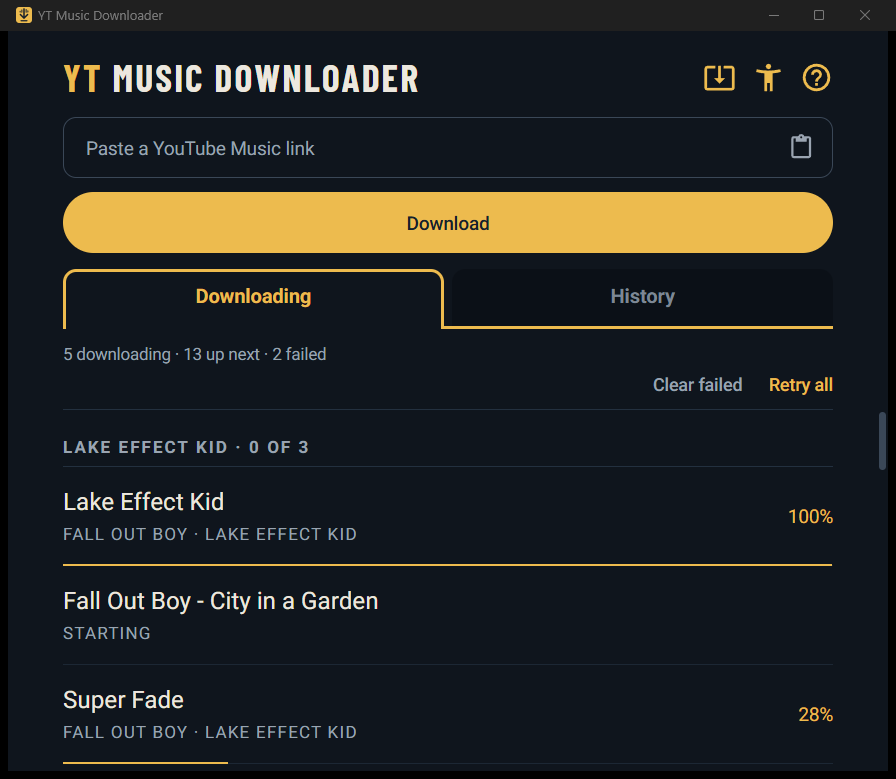
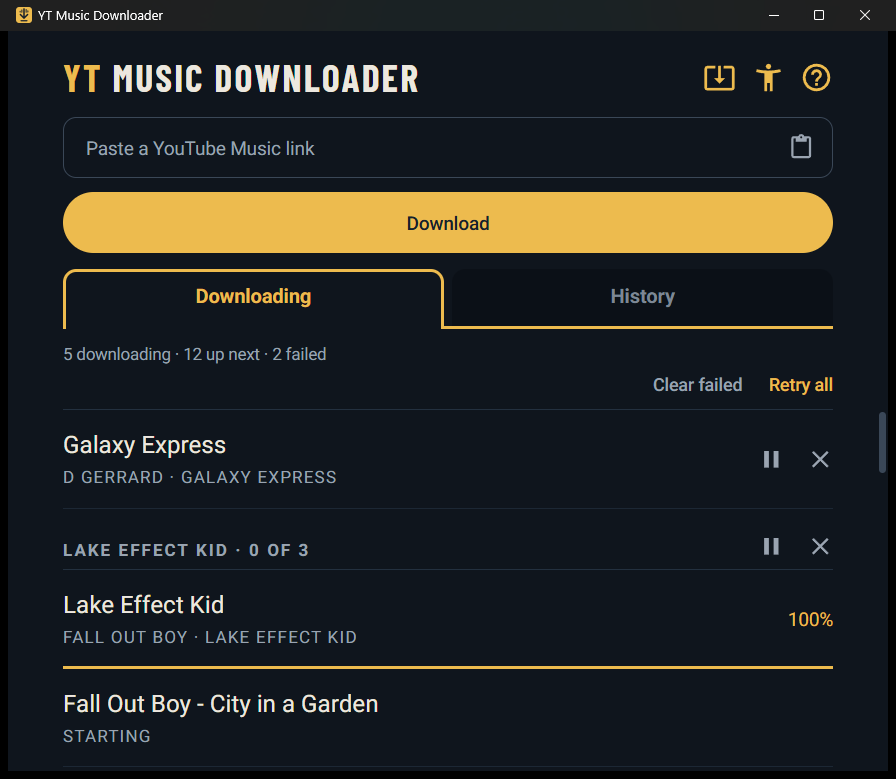
site: Downloading picture from 1.1.0, and "Let it run" fixed
The Windows Downloading screen is the only one 1.1.0 changed, so it's
retaken from the installed 1.1.0 with Pause and Cancel showing. "Let it
run" said big playlists start with no asking, which 1.1.0 changed.

diff --git a/yt-music-downloader/index.html b/yt-music-downloader/index.html
@@ -479,15 +479,15 @@ html[data-os="windows"] [data-for="android"]{display:none !important}
     <figure class="shots win" data-for="windows">
       <div class="tabs" role="tablist" aria-label="Screens">
         <button role="tab" aria-selected="false" aria-controls="pc" data-shot="help" data-cap="Help: how to paste a link, and which links work." tabindex="-1">Help</button>
-        <button role="tab" aria-selected="true" aria-controls="pc" data-shot="download" data-cap="Songs downloading, more up next, and failed ones with Retry all. Test songs, for the picture.">Downloading</button>
+        <button role="tab" aria-selected="true" aria-controls="pc" data-shot="download" data-cap="Songs downloading with Pause and Cancel, more up next, and failed ones with Retry all. Test songs, for the picture.">Downloading</button>
         <button role="tab" aria-selected="false" aria-controls="pc" data-shot="history" data-cap="Every song that's done, with its artist, album and the folder it went in." tabindex="-1">History</button>
       </div>
       <div class="stack" id="pc">
-        <div class="phone" data-shot="download" data-pos="centre"><img src="assets/win-downloading.png" width="896" height="779" alt="The Downloading tab on Windows: the paste box, the gold Download button, 5 downloading, 13 up next and 2 failed with Clear failed and Retry all, and an album's songs at 100%, starting and 28%"></div>
+        <div class="phone" data-shot="download" data-pos="centre"><img src="assets/win-downloading.png" width="896" height="779" alt="The Downloading tab on Windows: the paste box, the gold Download button, 5 downloading, 12 up next and 2 failed with Clear failed and Retry all, a single song and an album each with Pause and Cancel, and the album's songs at 100% and starting"></div>
         <div class="phone" data-shot="history" data-pos="right" aria-hidden="true"><img src="assets/win-history.png" width="896" height="779" alt="The History tab on Windows: finished songs under their album's heading, each with its artist, album, size, folder and Show in folder"></div>
         <div class="phone" data-shot="help" data-pos="left" aria-hidden="true"><img src="assets/win-help.png" width="896" height="779" alt="The Help pop-up on Windows: how to paste a link, which links work, where songs go, and closing the app"></div>
       </div>
-      <figcaption>Songs downloading, more up next, and failed ones with Retry all. Test songs, for the picture.</figcaption>
+      <figcaption>Songs downloading with Pause and Cancel, more up next, and failed ones with Retry all. Test songs, for the picture.</figcaption>
     </figure>
   </section>
 
@@ -694,14 +694,14 @@ html[data-os="windows"] [data-for="android"]{display:none !important}
           <li><span><span class="t">Copy a link</span><span class="s">In your browser, from YouTube or YT Music.</span></span></li>
           <li data-shot="paste" data-cap="The paste box and Download, at the top of the app." tabindex="0"><span><span class="t">Paste it in the app</span><span class="s">The paste icon, then <b>Download</b>.</span></span></li>
           <li class="on" data-shot="folder" data-cap="It starts on the folder you used last time." tabindex="0"><span><span class="t">Pick the folder</span><span class="s">Then <b>Download</b> again.</span></span></li>
-          <li data-shot="queue" data-cap="Five songs at a time, the rest up next. Big playlists start straight away." tabindex="0"><span><span class="t">Let it run</span><span class="s">Any size of playlist, no asking.</span></span></li>
+          <li data-shot="queue" data-cap="Five songs at a time, the rest up next. Pause and Cancel sit beside each playlist and single song." tabindex="0"><span><span class="t">Let it run</span><span class="s">Over 30 new songs, it asks first.</span></span></li>
           <li data-shot="close" data-cap="Closing while songs download asks first." tabindex="0"><span><span class="t">Close when you like</span><span class="s"><b>Minimise</b> keeps songs going.</span></span></li>
           <li data-shot="play" data-p="windows" data-cap-android="A downloaded song in the phone's own music player, with its title, artist and cover." data-cap-windows="Galaxy Express in Windows' Media Player, and in its music library with the artist and album the app filled in." tabindex="0"><span><span class="t">Play it</span><span class="s">Songs land in the folder you picked. Not in Media Player? <a class="see" href="#faq-library">See the FAQ</a>.</span></span></li>
         </ol>
         <figure class="cut">
           <img data-shot="paste" src="assets/win-setup-open.png" width="880" height="740" alt="The app's paste box, the paste icon and the gold Download button">
           <img class="on" data-shot="folder" src="assets/win-folder.png" width="616" height="265" alt="The Download to window: Songs are saved in this folder, the folder box, Change folder, Cancel and Download">
-          <img data-shot="queue" src="assets/win-downloading.png" width="896" height="779" alt="The Downloading tab: an album's songs downloading, more up next, and Retry all for the failed ones">
+          <img data-shot="queue" src="assets/win-downloading.png" width="896" height="779" alt="The Downloading tab: an album's songs downloading with Pause and Cancel, more up next, and Retry all for the failed ones">
           <img data-shot="close" src="assets/win-closing.png" width="896" height="779" alt="Songs are still downloading: 5 are downloading and 10 are up next, with Close and stop, and Minimise">
           <div class="mini" role="tablist" aria-label="Which player" data-shot="play"><button role="tab" aria-selected="false" data-p="android" tabindex="-1">Android phone</button><button role="tab" aria-selected="true" data-p="windows">Windows PC</button></div>
           <img data-shot="play" data-p="android" src="assets/play-it.png" width="900" height="1590" alt="HONOR Music playing Tip Toe by HYBS, with its cover art">

diff --git a/CLAUDE.md b/CLAUDE.md
@@ -65,6 +65,8 @@ first app on it) the site is done. Nothing below blocks that.]
     title is "YT Music Downloader · Android 1.0 · Windows 1.1.0". 1.1.0 asks before a
     playlist over 30 new songs, and has Pause / Cancel. 1.0.0 (the 26 Oct 18:41
     rebuild) stays downloadable as `yt-music-downloader-setup-1.0.0.exe`, in the menu.
+    The Downloading picture is retaken from 1.1.0 and "Let it run" fixed, both OK'd and
+    pushed 10 Nov.
 - **Tick the repo journal's goals, mine to do.** Both are met. Goal 1 still says "one
   long page, a section per app", but it became a catalogue page plus a page per app on
   14 Oct. Claude offered to log that change with `log` and reword the goal. Not
@@ -75,17 +77,19 @@ first app on it) the site is done. Nothing below blocks that.]
   [The phone cut-off I saw: it was "DOWNLOADER" in the stand-in font on a slow first
   load. Fixed by review fix #11, checked on my phone 16 Oct.]
   [The FAQ's "Is this legal?" is left out for good, my call 2026-10-16.]
-- **Version picker: built and live 2026-11-10**, A, the menu beside the download
-  button. OK'd from a test copy ("looks good"). The Windows tab has it now (1.1.0,
-  1.0.0). Android gets it at its second version. How the build differs from the
-  mockup is in [`downloads-page.md`](doc/live-design-choices/downloads-page.md),
-  "Picking an older version".
-  - Each app's versions are in `<tag>/versions.js`. Every update uploads a numbered
-    copy too and adds the version there, then runs `check-versions.bat`. All in
-    [`doc/uploading-a-build.md`](doc/uploading-a-build.md).
-  - Numbered copies of Android 1.0 and Windows 1.0.0 are on the release.
-  - **Not answered yet:** adding the numbered copy and the `versions.js` entry to the
-    update steps in the "Apps on YH-Downloads" section of my global `CLAUDE.md`, cause
-    it's the first thing an uploading Claude reads. Claude asked 10 Nov.
-- Further off, in [`doc/backlog.md`](doc/backlog.md): the old canvas directions still
-  in "To evaluate", and the Support me page, parked till I can get into Ko-fi.
+- **Old canvas directions.** The three at
+  <https://claude.ai/artifact/GyEG127fHrS5bLCeDf1BgY> are still in "To evaluate". Riso
+  and Warm replaced them, so ask before moving them to "Past". Back up from the backlog
+  2026-11-10.
+  - [`.impeccable/questions/` (old picking-page state) and `.playwright-cli/` (Claude's
+    check screenshots and logs) are in `.gitignore` since 2026-10-16, cause this repo is
+    public.]
+- Further off, in [`doc/backlog.md`](doc/backlog.md): the Support me page, parked till
+  I can get into Ko-fi.
+
+[Version picker: done 2026-11-10, A, the menu beside the button. Each app's versions
+are in `<tag>/versions.js`, the update steps (here and in my global `CLAUDE.md`) add
+a numbered copy and run `check-versions.bat`. Android gets the menu at its second
+version, nothing to do for that. Details in
+[`downloads-page.md`](doc/live-design-choices/downloads-page.md), "Picking an older
+version".]

diff --git a/doc/live-design-choices/downloads-page.md b/doc/live-design-choices/downloads-page.md
@@ -432,6 +432,15 @@ OK'd mockups.
 - **Window shots are from 1.0.0**, taken 26 Oct from the installed app, songs saved to
   `D:\Songs` so no username shows. The folder window and the closing prompt were
   retaken too: the old ones showed a temp folder path and the old text size icon.
+  - **Downloading retaken from 1.1.0, 2026-11-10**, cause it's the only screen 1.1.0
+    changed (Pause and Cancel beside each playlist and single song). History, Help,
+    the folder window, the closing prompt and the installer look the same, so they stay
+    1.0.0. Old and new side by side in
+    `.impeccable/mocks/both-platforms/win-shots-1.1.0.png`, OK'd. Its picture note says
+    1.1.0, Nov 2026.
+  - "Let it run" on Windows said "Any size of playlist, no asking." That stopped being
+    true with 1.1.0, which asks before a playlist with over 30 new songs. Now "Over 30
+    new songs, it asks first." OK'd the same day.
 - **Picture notes** on the 13 new pictures, like the 16 Oct ones: "Real screenshot of
   YT Music Downloader 1.0.0 or Windows on the owner's PC, cropped for this page, Oct
   2026. Not generated." The two with blurred parts add "with private parts blurred".

diff --git a/.impeccable/surfaces/yt-music-downloader-index-html.md b/.impeccable/surfaces/yt-music-downloader-index-html.md
@@ -18,8 +18,9 @@ or the Microsoft Store, download the right file and get it set up.
 - Job: show the app off like a small landing page, with the download right there. Then
   Setup, How to use it, What it's for, and the FAQ. An "Android phone / Windows PC"
   switch under the app's line picks the version, and the whole page follows it.
-- Proof: real screenshots of Android 1.0 (Download, History, Help) and Windows 1.0.0
-  (Downloading, History, Help), real install screenshots for both, the phone's music
+- Proof: real screenshots of Android 1.0 (Download, History, Help) and Windows
+  (Downloading from 1.1.0, History and Help from 1.0.0, which look the same in 1.1.0),
+  real install screenshots for both, the phone's music
   player and Windows' Media Player playing a downloaded song, and facts from the app's
   repos. Nothing invented. The Download tabs' songs are labelled as made up or test
   songs. Private parts (other songs, the username) are blurred or cropped out.

diff --git a/doc/backlog.md b/doc/backlog.md
@@ -6,13 +6,6 @@ moves up, so keep this list in the order they'd be done.
 
 ## Tasks
 
-- **Old canvas directions.** The three at
-  <https://claude.ai/artifact/GyEG127fHrS5bLCeDf1BgY> are still in "To evaluate". Riso
-  and Warm replaced them, so ask before moving them to "Past". Moved here from `Next`
-  2026-10-26.
-  - [`.impeccable/questions/` (old picking-page state) and `.playwright-cli/` (Claude's
-    check screenshots and logs) are in `.gitignore` since 2026-10-16, cause this repo is
-    public.]
 - **Support me page, with Ko-fi.** Parked 2026-10-16, cause I can't get into my Ko-fi
   account right now. Waiting on me, not on order.
   - The mockup is done: `.impeccable/mocks/catalogue/src/support.html`, in the site's
